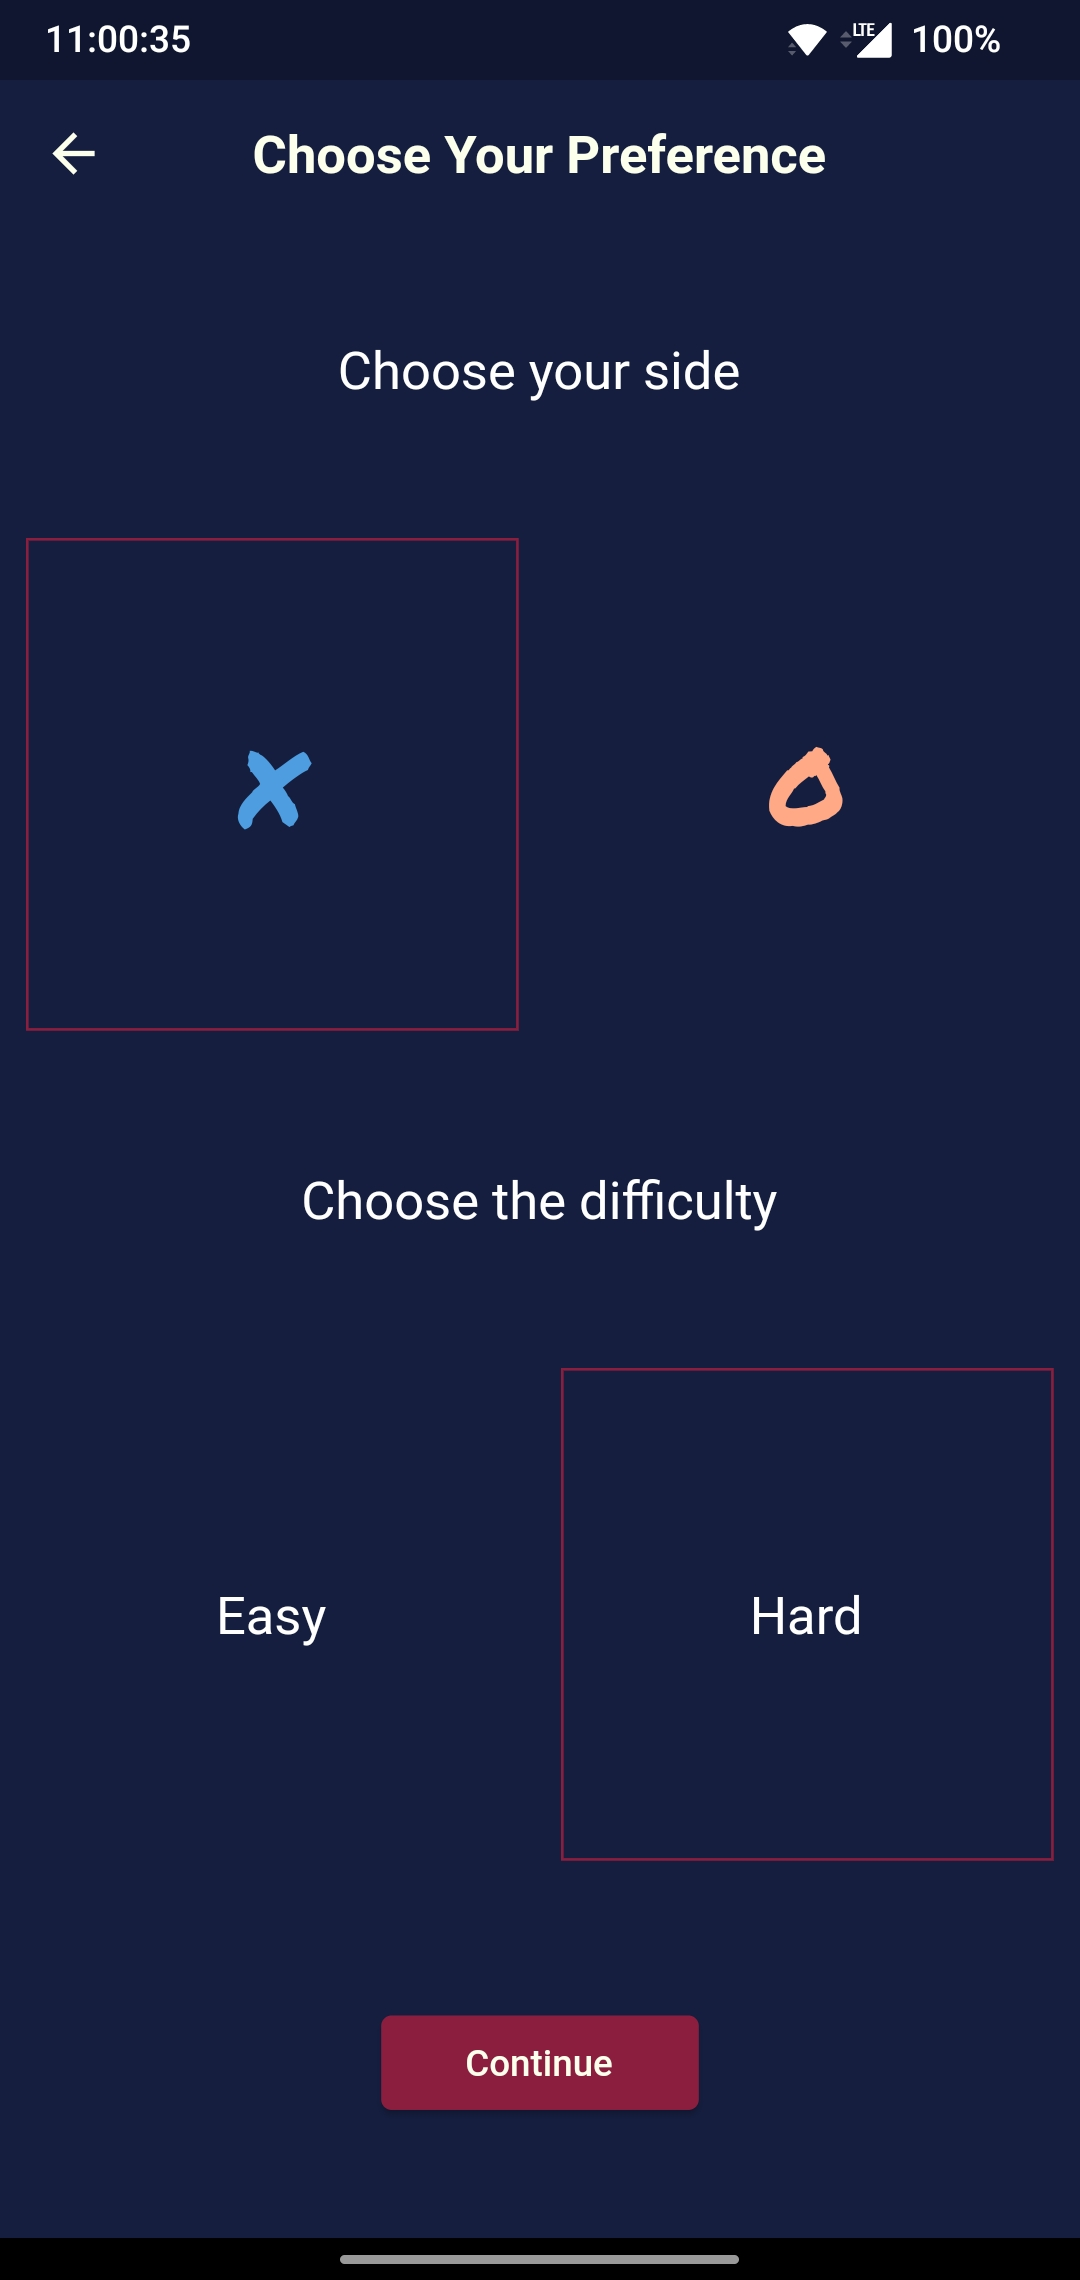
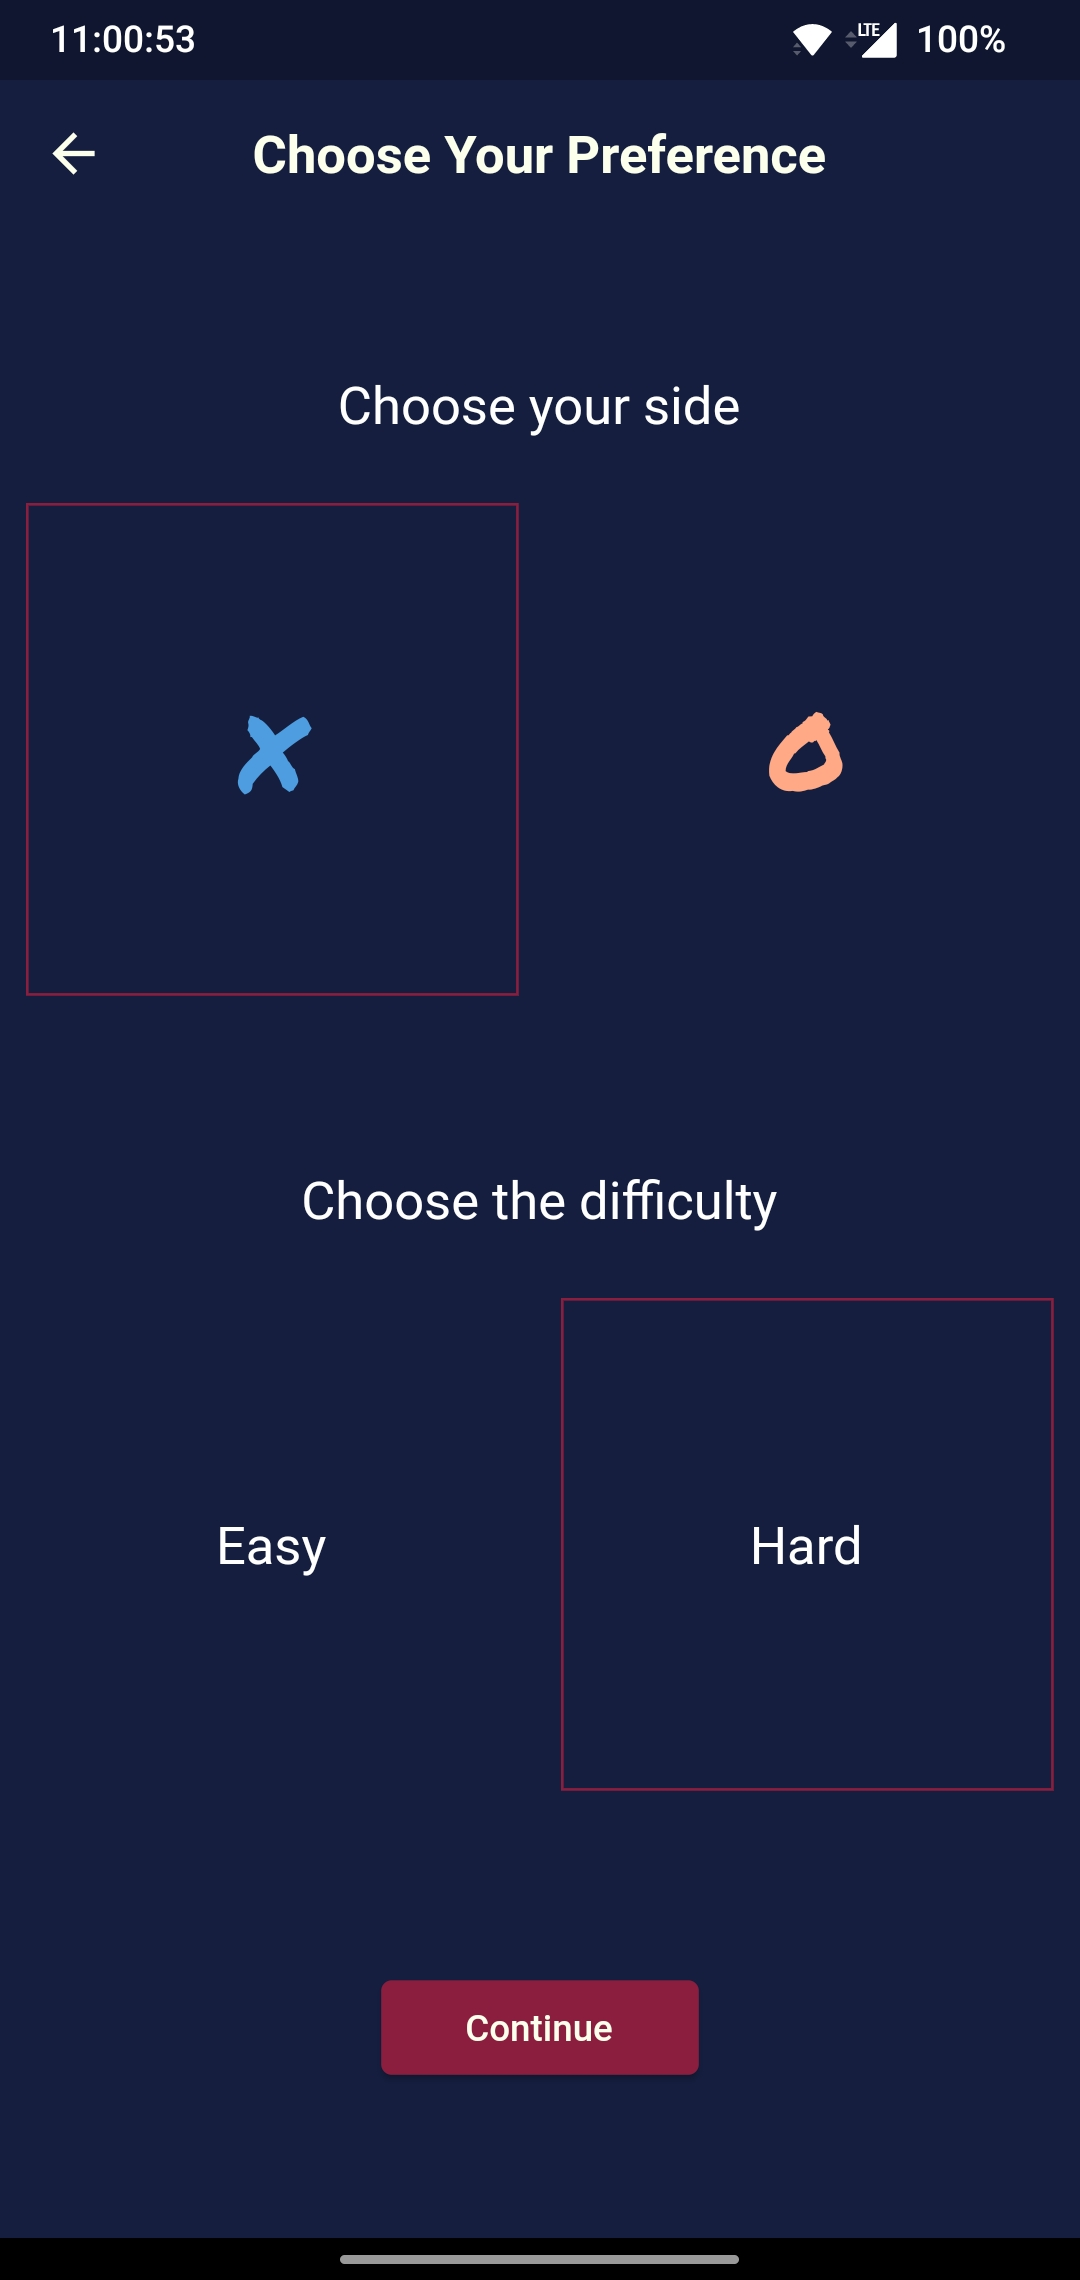
Minor UI changes

diff --git a/lib/pages/choose.dart b/lib/pages/choose.dart
@@ -41,57 +41,67 @@ class _ChooserPageState extends State<ChooserPage> {
         mainAxisSize: MainAxisSize.max,
         mainAxisAlignment: MainAxisAlignment.spaceEvenly,
         children: [
-          const Text(
-            'Choose your side',
-            style: TextStyle(fontSize: 20),
-          ),
-          GridView.count(
-            crossAxisCount: 2,
-            shrinkWrap: true,
-            physics: const NeverScrollableScrollPhysics(),
-            crossAxisSpacing: 16,
-            mainAxisSpacing: 42,
-            padding: const EdgeInsets.all(10),
+          Column(
             children: [
-              SelectableCard(
-                child: const X(),
-                onTap: () => setSide(true),
-                isSelected: isXSelected,
+              const Text(
+                'Choose your side',
+                style: TextStyle(fontSize: 20),
               ),
-              SelectableCard(
-                child: const O(),
-                onTap: () => setSide(false),
-                isSelected: !isXSelected,
+              const SizedBox(height: 16),
+              GridView.count(
+                crossAxisCount: 2,
+                shrinkWrap: true,
+                physics: const NeverScrollableScrollPhysics(),
+                crossAxisSpacing: 16,
+                mainAxisSpacing: 42,
+                padding: const EdgeInsets.all(10),
+                children: [
+                  SelectableCard(
+                    child: const X(),
+                    onTap: () => setSide(true),
+                    isSelected: isXSelected,
+                  ),
+                  SelectableCard(
+                    child: const O(),
+                    onTap: () => setSide(false),
+                    isSelected: !isXSelected,
+                  ),
+                ],
               ),
             ],
           ),
-          const Text(
-            'Choose the difficulty',
-            style: TextStyle(fontSize: 20),
-          ),
-          GridView.count(
-            crossAxisCount: 2,
-            shrinkWrap: true,
-            physics: const NeverScrollableScrollPhysics(),
-            crossAxisSpacing: 16,
-            mainAxisSpacing: 42,
-            padding: const EdgeInsets.all(10),
+          Column(
             children: [
-              SelectableCard(
-                child: const Text(
-                  'Easy',
-                  style: TextStyle(fontSize: 20),
-                ),
-                onTap: () => setMode(true),
-                isSelected: isEasyMode,
+              const Text(
+                'Choose the difficulty',
+                style: TextStyle(fontSize: 20),
               ),
-              SelectableCard(
-                child: const Text(
-                  'Hard',
-                  style: TextStyle(fontSize: 20),
-                ),
-                onTap: () => setMode(false),
-                isSelected: !isEasyMode,
+              const SizedBox(height: 16),
+              GridView.count(
+                crossAxisCount: 2,
+                shrinkWrap: true,
+                physics: const NeverScrollableScrollPhysics(),
+                crossAxisSpacing: 16,
+                mainAxisSpacing: 42,
+                padding: const EdgeInsets.all(10),
+                children: [
+                  SelectableCard(
+                    child: const Text(
+                      'Easy',
+                      style: TextStyle(fontSize: 20),
+                    ),
+                    onTap: () => setMode(true),
+                    isSelected: isEasyMode,
+                  ),
+                  SelectableCard(
+                    child: const Text(
+                      'Hard',
+                      style: TextStyle(fontSize: 20),
+                    ),
+                    onTap: () => setMode(false),
+                    isSelected: !isEasyMode,
+                  ),
+                ],
               ),
             ],
           ),

diff --git a/lib/pages/game.dart b/lib/pages/game.dart
@@ -177,20 +177,30 @@ class _GamePageState extends State<GamePage> {
     return isXTurn ? 'O' : 'X';
   }
 
-  makeMove(int index) {
+  vibrateLongDuration() async {
+    HapticFeedback.vibrate();
+    await Future.delayed(const Duration(milliseconds: 100));
+    HapticFeedback.vibrate();
+    await Future.delayed(const Duration(milliseconds: 100));
+    HapticFeedback.vibrate();
+  }
+
+  makeMove(int index) async {
     setState(() {
       board[index] = isXTurn ? 'X' : 'O';
       isXTurn = !isXTurn;
       totalMoves++;
     });
-    HapticFeedback.vibrate();
+    HapticFeedback.selectionClick();
 
     if (isGameOver()) {
+      vibrateLongDuration();
       setState(() {
         gameState = GameState.done;
       });
     } else if ((isXTurn && widget.playerX == PlayerType.computer) ||
         (!isXTurn && widget.playerO == PlayerType.computer)) {
+      await Future.delayed(Duration(milliseconds: 250));
       computerMove();
     }
   }
